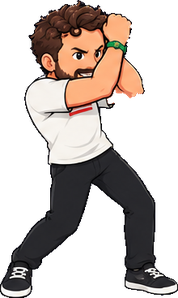
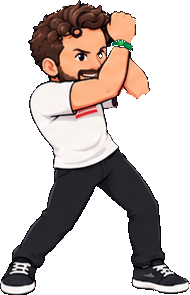
La Mocha: actualiza poses y retrato de Karl
Claude-Session: https://claude.ai/code/session_019FDnwE1yNBZjJsBSPwGXXr

Changed region(s): [[0.1124, 0.0, 1.0, 1.0], [0.0, 0.8237, 0.2247, 1.0], [0.2247, 0.6407, 0.5056, 0.8847]]

diff --git a/la-mocha/index.html b/la-mocha/index.html
@@ -312,7 +312,7 @@ ROSTER.find(c=>c.name==="Bruno").spr="Bruno";
 /* ---------- Dibujo de luchadores ---------- */
 const HEADS=new Map();
 /* ---------- Sprites ilustrados ---------- */
-const SPRITES={"Ivan":{portrait:"personajes/Ivan/portrait.png",idle:{w:138,h:300,ax:72,src:"personajes/Ivan/idle.png"},punch:{w:167,h:300,ax:90,src:"personajes/Ivan/punch.png"},kick:{w:162,h:300,ax:36,src:"personajes/Ivan/kick.png"},hit:{w:145,h:300,ax:38,src:"personajes/Ivan/hit.png"},win:{w:134,h:300,ax:71,src:"personajes/Ivan/win.png"},crouch:{w:169,h:241,ax:92,src:"personajes/Ivan/crouch.png"},crouch_punch:{w:197,h:242,ax:105,src:"personajes/Ivan/crouch_punch.png"},crouch_kick:{w:177,h:215,ax:54,src:"personajes/Ivan/crouch_kick.png"},punch_hi:{w:182,h:300,ax:119,src:"personajes/Ivan/punch_hi.png"},upper:{w:190,h:325,ax:121,src:"personajes/Ivan/upper.png"},kick_hi:{w:176,h:300,ax:71,src:"personajes/Ivan/kick_hi.png"},block:{w:154,h:300,ax:82,src:"personajes/Ivan/block.png"}},"Marcelo":{portrait:"personajes/Marcelo/portrait.png",idle:{w:177,h:300,ax:89,src:"personajes/Marcelo/idle.png"},punch:{w:197,h:300,ax:96,src:"personajes/Marcelo/punch.png"},kick:{w:202,h:300,ax:46,src:"personajes/Marcelo/kick.png"},hit:{w:174,h:300,ax:43,src:"personajes/Marcelo/hit.png"},win:{w:177,h:300,ax:91,src:"personajes/Marcelo/win.png"},crouch:{w:204,h:239,ax:102,src:"personajes/Marcelo/crouch.png"},crouch_punch:{w:227,h:239,ax:112,src:"personajes/Marcelo/crouch_punch.png"},crouch_kick:{w:156,h:196,ax:54,src:"personajes/Marcelo/crouch_kick.png"},punch_hi:{w:206,h:302,ax:137,src:"personajes/Marcelo/punch_hi.png"},upper:{w:194,h:333,ax:129,src:"personajes/Marcelo/upper.png"},kick_hi:{w:178,h:300,ax:57,src:"personajes/Marcelo/kick_hi.png"},block:{w:152,h:300,ax:57,src:"personajes/Marcelo/block.png"}},"Bruno":{portrait:"personajes/Bruno/portrait.png",idle:{w:162,h:300,ax:85,src:"personajes/Bruno/idle.png"},punch:{w:201,h:300,ax:97,src:"personajes/Bruno/punch.png"},kick:{w:198,h:300,ax:46,src:"personajes/Bruno/kick.png"},hit:{w:167,h:300,ax:42,src:"personajes/Bruno/hit.png"},win:{w:153,h:300,ax:83,src:"personajes/Bruno/win.png"},crouch:{w:165,h:239,ax:105,src:"personajes/Bruno/crouch.png"},crouch_punch:{w:237,h:237,ax:115,src:"personajes/Bruno/crouch_punch.png"},crouch_kick:{w:175,h:198,ax:68,src:"personajes/Bruno/crouch_kick.png"},punch_hi:{w:174,h:302,ax:103,src:"personajes/Bruno/punch_hi.png"},upper:{w:194,h:337,ax:90,src:"personajes/Bruno/upper.png"},kick_hi:{w:188,h:300,ax:70,src:"personajes/Bruno/kick_hi.png"},block:{w:182,h:300,ax:105,src:"personajes/Bruno/block.png"}},"Karl":{portrait:"personajes/Karl/portrait.png",idle:{w:168,h:300,ax:77,src:"personajes/Karl/idle.png"},punch:{w:191,h:289,ax:84,src:"personajes/Karl/punch.png"},kick:{w:183,h:276,ax:37,src:"personajes/Karl/kick.png"},hit:{w:187,h:282,ax:36,src:"personajes/Karl/hit.png"},win:{w:181,h:336,ax:79,src:"personajes/Karl/win.png"},crouch:{w:167,h:237,ax:87,src:"personajes/Karl/crouch.png"},crouch_punch:{w:193,h:239,ax:95,src:"personajes/Karl/crouch_punch.png"},crouch_kick:{w:188,h:267,ax:45,src:"personajes/Karl/crouch_kick.png"},punch_hi:{w:181,h:307,ax:56,src:"personajes/Karl/punch_hi.png"},upper:{w:185,h:317,ax:75,src:"personajes/Karl/upper.png"},kick_hi:{w:175,h:311,ax:39,src:"personajes/Karl/kick_hi.png"},block:{w:178,h:298,ax:65,src:"personajes/Karl/block.png"}},"Klaus":{portrait:"personajes/Klaus/portrait.png",idle:{w:136,h:300,ax:70,src:"personajes/Klaus/idle.png"},punch:{w:158,h:300,ax:72,src:"personajes/Klaus/punch.png"},kick:{w:162,h:300,ax:37,src:"personajes/Klaus/kick.png"},hit:{w:144,h:300,ax:38,src:"personajes/Klaus/hit.png"},win:{w:128,h:300,ax:62,src:"personajes/Klaus/win.png"},crouch:{w:144,h:244,ax:94,src:"personajes/Klaus/crouch.png"},crouch_punch:{w:186,h:239,ax:86,src:"personajes/Klaus/crouch_punch.png"},crouch_kick:{w:156,h:208,ax:56,src:"personajes/Klaus/crouch_kick.png"},punch_hi:{w:186,h:302,ax:97,src:"personajes/Klaus/punch_hi.png"},upper:{w:199,h:341,ax:89,src:"personajes/Klaus/upper.png"},kick_hi:{w:168,h:300,ax:59,src:"personajes/Klaus/kick_hi.png"},block:{w:171,h:300,ax:94,src:"personajes/Klaus/block.png"}},"Felipe":{portrait:"personajes/Felipe/portrait.png",idle:{w:178,h:300,ax:101,src:"personajes/Felipe/idle.png"},punch:{w:207,h:300,ax:96,src:"personajes/Felipe/punch.png"},kick:{w:204,h:300,ax:70,src:"personajes/Felipe/kick.png"},hit:{w:187,h:300,ax:48,src:"personajes/Felipe/hit.png"},win:{w:174,h:300,ax:89,src:"personajes/Felipe/win.png"},crouch:{w:210,h:241,ax:117,src:"personajes/Felipe/crouch.png"},crouch_punch:{w:244,h:241,ax:114,src:"personajes/Felipe/crouch_punch.png"},crouch_kick:{w:201,h:200,ax:60,src:"personajes/Felipe/crouch_kick.png"},punch_hi:{w:233,h:302,ax:154,src:"personajes/Felipe/punch_hi.png"},upper:{w:218,h:341,ax:109,src:"personajes/Felipe/upper.png"},kick_hi:{w:192,h:307,ax:107,src:"personajes/Felipe/kick_hi.png"},block:{w:180,h:300,ax:100,src:"personajes/Felipe/block.png"}},"Adam":{portrait:"personajes/Adam/portrait.png",idle:{w:193,h:300,ax:99,src:"personajes/Adam/idle.png"},punch:{w:245,h:300,ax:124,src:"personajes/Adam/punch.png"},kick:{w:252,h:300,ax:80,src:"personajes/Adam/kick.png"},hit:{w:228,h:300,ax:75,src:"personajes/Adam/hit.png"},win:{w:185,h:300,ax:94,src:"personajes/Adam/win.png"},crouch:{w:217,h:236,ax:119,src:"personajes/Adam/crouch.png"},crouch_punch:{w:289,h:241,ax:146,src:"personajes/Adam/crouch_punch.png"},crouch_kick:{w:159,h:183,ax:53,src:"personajes/Adam/crouch_kick.png"},punch_hi:{w:199,h:305,ax:123,src:"personajes/Adam/punch_hi.png"},upper:{w:208,h:339,ax:127,src:"personajes/Adam/upper.png"},kick_hi:{w:202,h:307,ax:117,src:"personajes/Adam/kick_hi.png"},block:{w:180,h:300,ax:83,src:"personajes/Adam/block.png"}},"Lazza":{portrait:"personajes/Lazza/portrait.png",idle:{w:154,h:300,ax:77,src:"personajes/Lazza/idle.png"},punch:{w:186,h:300,ax:86,src:"personajes/Lazza/punch.png"},kick:{w:189,h:300,ax:53,src:"personajes/Lazza/kick.png"},hit:{w:163,h:300,ax:45,src:"personajes/Lazza/hit.png"},win:{w:147,h:300,ax:79,src:"personajes/Lazza/win.png"},crouch:{w:196,h:248,ax:104,src:"personajes/Lazza/crouch.png"},crouch_punch:{w:219,h:239,ax:102,src:"personajes/Lazza/crouch_punch.png"},crouch_kick:{w:168,h:191,ax:44,src:"personajes/Lazza/crouch_kick.png"},punch_hi:{w:216,h:300,ax:110,src:"personajes/Lazza/punch_hi.png"},upper:{w:217,h:348,ax:108,src:"personajes/Lazza/upper.png"},kick_hi:{w:217,h:309,ax:83,src:"personajes/Lazza/kick_hi.png"},block:{w:156,h:300,ax:64,src:"personajes/Lazza/block.png"}},"Espe":{portrait:"personajes/Espe/portrait.png",idle:{w:152,h:300,ax:67,src:"personajes/Espe/idle.png"},punch:{w:184,h:300,ax:86,src:"personajes/Espe/punch.png"},kick:{w:187,h:300,ax:49,src:"personajes/Espe/kick.png"},hit:{w:164,h:300,ax:49,src:"personajes/Espe/hit.png"},win:{w:126,h:300,ax:68,src:"personajes/Espe/win.png"},crouch:{w:182,h:241,ax:89,src:"personajes/Espe/crouch.png"},crouch_punch:{w:217,h:232,ax:102,src:"personajes/Espe/crouch_punch.png"},crouch_kick:{w:172,h:202,ax:55,src:"personajes/Espe/crouch_kick.png"},punch_hi:{w:215,h:302,ax:134,src:"personajes/Espe/punch_hi.png"},upper:{w:236,h:350,ax:154,src:"personajes/Espe/upper.png"},kick_hi:{w:218,h:300,ax:95,src:"personajes/Espe/kick_hi.png"},block:{w:168,h:300,ax:99,src:"personajes/Espe/block.png"}},"Marco":{portrait:"personajes/Marco/portrait.png",idle:{w:148,h:300,ax:81,src:"personajes/Marco/idle.png"},punch:{w:200,h:300,ax:107,src:"personajes/Marco/punch.png"},kick:{w:187,h:300,ax:53,src:"personajes/Marco/kick.png"},hit:{w:167,h:300,ax:49,src:"personajes/Marco/hit.png"},win:{w:163,h:300,ax:90,src:"personajes/Marco/win.png"},crouch:{w:161,h:242,ax:98,src:"personajes/Marco/crouch.png"},crouch_punch:{w:236,h:240,ax:125,src:"personajes/Marco/crouch_punch.png"},crouch_kick:{w:206,h:190,ax:58,src:"personajes/Marco/crouch_kick.png"},punch_hi:{w:229,h:306,ax:147,src:"personajes/Marco/punch_hi.png"},upper:{w:237,h:355,ax:134,src:"personajes/Marco/upper.png"},kick_hi:{w:212,h:302,ax:62,src:"personajes/Marco/kick_hi.png"},block:{w:183,h:300,ax:91,src:"personajes/Marco/block.png"}},"Maxi":{portrait:"personajes/Maxi/portrait.png",idle:{w:170,h:300,ax:87,src:"personajes/Maxi/idle.png"},punch:{w:192,h:300,ax:91,src:"personajes/Maxi/punch.png"},kick:{w:182,h:300,ax:40,src:"personajes/Maxi/kick.png"},hit:{w:175,h:300,ax:51,src:"personajes/Maxi/hit.png"},win:{w:167,h:300,ax:96,src:"personajes/Maxi/win.png"},crouch:{w:201,h:241,ax:102,src:"personajes/Maxi/crouch.png"},crouch_punch:{w:227,h:241,ax:108,src:"personajes/Maxi/crouch_punch.png"},crouch_kick:{w:164,h:201,ax:46,src:"personajes/Maxi/crouch_kick.png"},punch_hi:{w:196,h:300,ax:98,src:"personajes/Maxi/punch_hi.png"},upper:{w:224,h:349,ax:99,src:"personajes/Maxi/upper.png"},kick_hi:{w:182,h:300,ax:63,src:"personajes/Maxi/kick_hi.png"},block:{w:198,h:300,ax:109,src:"personajes/Maxi/block.png"}},"Marcelo Ig":{portrait:"personajes/Marcelo_Ig/portrait.png",idle:{w:173,h:300,ax:94,src:"personajes/Marcelo_Ig/idle.png"},punch:{w:197,h:300,ax:105,src:"personajes/Marcelo_Ig/punch.png"},kick:{w:189,h:300,ax:42,src:"personajes/Marcelo_Ig/kick.png"},hit:{w:176,h:300,ax:44,src:"personajes/Marcelo_Ig/hit.png"},win:{w:167,h:300,ax:91,src:"personajes/Marcelo_Ig/win.png"},crouch:{w:204,h:241,ax:109,src:"personajes/Marcelo_Ig/crouch.png"},crouch_punch:{w:232,h:241,ax:122,src:"personajes/Marcelo_Ig/crouch_punch.png"},crouch_kick:{w:176,h:204,ax:42,src:"personajes/Marcelo_Ig/crouch_kick.png"},punch_hi:{w:205,h:302,ax:133,src:"personajes/Marcelo_Ig/punch_hi.png"},upper:{w:217,h:355,ax:93,src:"personajes/Marcelo_Ig/upper.png"},kick_hi:{w:197,h:300,ax:60,src:"personajes/Marcelo_Ig/kick_hi.png"},block:{w:196,h:300,ax:106,src:"personajes/Marcelo_Ig/block.png"}},"Miguel":{portrait:"personajes/Miguel/portrait.png",idle:{w:173,h:300,ax:102,src:"personajes/Miguel/idle.png"},punch:{w:199,h:300,ax:106,src:"personajes/Miguel/punch.png"},kick:{w:206,h:300,ax:55,src:"personajes/Miguel/kick.png"},hit:{w:199,h:300,ax:48,src:"personajes/Miguel/hit.png"},win:{w:169,h:300,ax:93,src:"personajes/Miguel/win.png"},crouch:{w:204,h:248,ax:117,src:"personajes/Miguel/crouch.png"},crouch_punch:{w:235,h:248,ax:124,src:"personajes/Miguel/crouch_punch.png"},crouch_kick:{w:166,h:193,ax:49,src:"personajes/Miguel/crouch_kick.png"},punch_hi:{w:200,h:300,ax:106,src:"personajes/Miguel/punch_hi.png"},upper:{w:214,h:300,ax:107,src:"personajes/Miguel/upper.png"},kick_hi:{w:189,h:300,ax:57,src:"personajes/Miguel/kick_hi.png"},block:{w:176,h:300,ax:87,src:"personajes/Miguel/block.png"}}};
+const SPRITES={"Ivan":{portrait:"personajes/Ivan/portrait.png",idle:{w:138,h:300,ax:72,src:"personajes/Ivan/idle.png"},punch:{w:167,h:300,ax:90,src:"personajes/Ivan/punch.png"},kick:{w:162,h:300,ax:36,src:"personajes/Ivan/kick.png"},hit:{w:145,h:300,ax:38,src:"personajes/Ivan/hit.png"},win:{w:134,h:300,ax:71,src:"personajes/Ivan/win.png"},crouch:{w:169,h:241,ax:92,src:"personajes/Ivan/crouch.png"},crouch_punch:{w:197,h:242,ax:105,src:"personajes/Ivan/crouch_punch.png"},crouch_kick:{w:177,h:215,ax:54,src:"personajes/Ivan/crouch_kick.png"},punch_hi:{w:182,h:300,ax:119,src:"personajes/Ivan/punch_hi.png"},upper:{w:190,h:325,ax:121,src:"personajes/Ivan/upper.png"},kick_hi:{w:176,h:300,ax:71,src:"personajes/Ivan/kick_hi.png"},block:{w:154,h:300,ax:82,src:"personajes/Ivan/block.png"}},"Marcelo":{portrait:"personajes/Marcelo/portrait.png",idle:{w:177,h:300,ax:89,src:"personajes/Marcelo/idle.png"},punch:{w:197,h:300,ax:96,src:"personajes/Marcelo/punch.png"},kick:{w:202,h:300,ax:46,src:"personajes/Marcelo/kick.png"},hit:{w:174,h:300,ax:43,src:"personajes/Marcelo/hit.png"},win:{w:177,h:300,ax:91,src:"personajes/Marcelo/win.png"},crouch:{w:204,h:239,ax:102,src:"personajes/Marcelo/crouch.png"},crouch_punch:{w:227,h:239,ax:112,src:"personajes/Marcelo/crouch_punch.png"},crouch_kick:{w:156,h:196,ax:54,src:"personajes/Marcelo/crouch_kick.png"},punch_hi:{w:206,h:302,ax:137,src:"personajes/Marcelo/punch_hi.png"},upper:{w:194,h:333,ax:129,src:"personajes/Marcelo/upper.png"},kick_hi:{w:178,h:300,ax:57,src:"personajes/Marcelo/kick_hi.png"},block:{w:152,h:300,ax:57,src:"personajes/Marcelo/block.png"}},"Bruno":{portrait:"personajes/Bruno/portrait.png",idle:{w:162,h:300,ax:85,src:"personajes/Bruno/idle.png"},punch:{w:201,h:300,ax:97,src:"personajes/Bruno/punch.png"},kick:{w:198,h:300,ax:46,src:"personajes/Bruno/kick.png"},hit:{w:167,h:300,ax:42,src:"personajes/Bruno/hit.png"},win:{w:153,h:300,ax:83,src:"personajes/Bruno/win.png"},crouch:{w:165,h:239,ax:105,src:"personajes/Bruno/crouch.png"},crouch_punch:{w:237,h:237,ax:115,src:"personajes/Bruno/crouch_punch.png"},crouch_kick:{w:175,h:198,ax:68,src:"personajes/Bruno/crouch_kick.png"},punch_hi:{w:174,h:302,ax:103,src:"personajes/Bruno/punch_hi.png"},upper:{w:194,h:337,ax:90,src:"personajes/Bruno/upper.png"},kick_hi:{w:188,h:300,ax:70,src:"personajes/Bruno/kick_hi.png"},block:{w:182,h:300,ax:105,src:"personajes/Bruno/block.png"}},"Karl":{portrait:"personajes/Karl/portrait.png",idle:{w:192,h:300,ax:88,src:"personajes/Karl/idle.png"},punch:{w:220,h:286,ax:112,src:"personajes/Karl/punch.png"},kick:{w:191,h:268,ax:34,src:"personajes/Karl/kick.png"},hit:{w:211,h:283,ax:32,src:"personajes/Karl/hit.png"},win:{w:202,h:317,ax:89,src:"personajes/Karl/win.png"},crouch:{w:178,h:233,ax:92,src:"personajes/Karl/crouch.png"},crouch_punch:{w:226,h:232,ax:120,src:"personajes/Karl/crouch_punch.png"},crouch_kick:{w:215,h:255,ax:52,src:"personajes/Karl/crouch_kick.png"},punch_hi:{w:209,h:306,ax:87,src:"personajes/Karl/punch_hi.png"},upper:{w:191,h:312,ax:85,src:"personajes/Karl/upper.png"},kick_hi:{w:192,h:340,ax:33,src:"personajes/Karl/kick_hi.png"},block:{w:190,h:295,ax:63,src:"personajes/Karl/block.png"}},"Klaus":{portrait:"personajes/Klaus/portrait.png",idle:{w:136,h:300,ax:70,src:"personajes/Klaus/idle.png"},punch:{w:158,h:300,ax:72,src:"personajes/Klaus/punch.png"},kick:{w:162,h:300,ax:37,src:"personajes/Klaus/kick.png"},hit:{w:144,h:300,ax:38,src:"personajes/Klaus/hit.png"},win:{w:128,h:300,ax:62,src:"personajes/Klaus/win.png"},crouch:{w:144,h:244,ax:94,src:"personajes/Klaus/crouch.png"},crouch_punch:{w:186,h:239,ax:86,src:"personajes/Klaus/crouch_punch.png"},crouch_kick:{w:156,h:208,ax:56,src:"personajes/Klaus/crouch_kick.png"},punch_hi:{w:186,h:302,ax:97,src:"personajes/Klaus/punch_hi.png"},upper:{w:199,h:341,ax:89,src:"personajes/Klaus/upper.png"},kick_hi:{w:168,h:300,ax:59,src:"personajes/Klaus/kick_hi.png"},block:{w:171,h:300,ax:94,src:"personajes/Klaus/block.png"}},"Felipe":{portrait:"personajes/Felipe/portrait.png",idle:{w:178,h:300,ax:101,src:"personajes/Felipe/idle.png"},punch:{w:207,h:300,ax:96,src:"personajes/Felipe/punch.png"},kick:{w:204,h:300,ax:70,src:"personajes/Felipe/kick.png"},hit:{w:187,h:300,ax:48,src:"personajes/Felipe/hit.png"},win:{w:174,h:300,ax:89,src:"personajes/Felipe/win.png"},crouch:{w:210,h:241,ax:117,src:"personajes/Felipe/crouch.png"},crouch_punch:{w:244,h:241,ax:114,src:"personajes/Felipe/crouch_punch.png"},crouch_kick:{w:201,h:200,ax:60,src:"personajes/Felipe/crouch_kick.png"},punch_hi:{w:233,h:302,ax:154,src:"personajes/Felipe/punch_hi.png"},upper:{w:218,h:341,ax:109,src:"personajes/Felipe/upper.png"},kick_hi:{w:192,h:307,ax:107,src:"personajes/Felipe/kick_hi.png"},block:{w:180,h:300,ax:100,src:"personajes/Felipe/block.png"}},"Adam":{portrait:"personajes/Adam/portrait.png",idle:{w:193,h:300,ax:99,src:"personajes/Adam/idle.png"},punch:{w:245,h:300,ax:124,src:"personajes/Adam/punch.png"},kick:{w:252,h:300,ax:80,src:"personajes/Adam/kick.png"},hit:{w:228,h:300,ax:75,src:"personajes/Adam/hit.png"},win:{w:185,h:300,ax:94,src:"personajes/Adam/win.png"},crouch:{w:217,h:236,ax:119,src:"personajes/Adam/crouch.png"},crouch_punch:{w:289,h:241,ax:146,src:"personajes/Adam/crouch_punch.png"},crouch_kick:{w:159,h:183,ax:53,src:"personajes/Adam/crouch_kick.png"},punch_hi:{w:199,h:305,ax:123,src:"personajes/Adam/punch_hi.png"},upper:{w:208,h:339,ax:127,src:"personajes/Adam/upper.png"},kick_hi:{w:202,h:307,ax:117,src:"personajes/Adam/kick_hi.png"},block:{w:180,h:300,ax:83,src:"personajes/Adam/block.png"}},"Lazza":{portrait:"personajes/Lazza/portrait.png",idle:{w:154,h:300,ax:77,src:"personajes/Lazza/idle.png"},punch:{w:186,h:300,ax:86,src:"personajes/Lazza/punch.png"},kick:{w:189,h:300,ax:53,src:"personajes/Lazza/kick.png"},hit:{w:163,h:300,ax:45,src:"personajes/Lazza/hit.png"},win:{w:147,h:300,ax:79,src:"personajes/Lazza/win.png"},crouch:{w:196,h:248,ax:104,src:"personajes/Lazza/crouch.png"},crouch_punch:{w:219,h:239,ax:102,src:"personajes/Lazza/crouch_punch.png"},crouch_kick:{w:168,h:191,ax:44,src:"personajes/Lazza/crouch_kick.png"},punch_hi:{w:216,h:300,ax:110,src:"personajes/Lazza/punch_hi.png"},upper:{w:217,h:348,ax:108,src:"personajes/Lazza/upper.png"},kick_hi:{w:217,h:309,ax:83,src:"personajes/Lazza/kick_hi.png"},block:{w:156,h:300,ax:64,src:"personajes/Lazza/block.png"}},"Espe":{portrait:"personajes/Espe/portrait.png",idle:{w:152,h:300,ax:67,src:"personajes/Espe/idle.png"},punch:{w:184,h:300,ax:86,src:"personajes/Espe/punch.png"},kick:{w:187,h:300,ax:49,src:"personajes/Espe/kick.png"},hit:{w:164,h:300,ax:49,src:"personajes/Espe/hit.png"},win:{w:126,h:300,ax:68,src:"personajes/Espe/win.png"},crouch:{w:182,h:241,ax:89,src:"personajes/Espe/crouch.png"},crouch_punch:{w:217,h:232,ax:102,src:"personajes/Espe/crouch_punch.png"},crouch_kick:{w:172,h:202,ax:55,src:"personajes/Espe/crouch_kick.png"},punch_hi:{w:215,h:302,ax:134,src:"personajes/Espe/punch_hi.png"},upper:{w:236,h:350,ax:154,src:"personajes/Espe/upper.png"},kick_hi:{w:218,h:300,ax:95,src:"personajes/Espe/kick_hi.png"},block:{w:168,h:300,ax:99,src:"personajes/Espe/block.png"}},"Marco":{portrait:"personajes/Marco/portrait.png",idle:{w:148,h:300,ax:81,src:"personajes/Marco/idle.png"},punch:{w:200,h:300,ax:107,src:"personajes/Marco/punch.png"},kick:{w:187,h:300,ax:53,src:"personajes/Marco/kick.png"},hit:{w:167,h:300,ax:49,src:"personajes/Marco/hit.png"},win:{w:163,h:300,ax:90,src:"personajes/Marco/win.png"},crouch:{w:161,h:242,ax:98,src:"personajes/Marco/crouch.png"},crouch_punch:{w:236,h:240,ax:125,src:"personajes/Marco/crouch_punch.png"},crouch_kick:{w:206,h:190,ax:58,src:"personajes/Marco/crouch_kick.png"},punch_hi:{w:229,h:306,ax:147,src:"personajes/Marco/punch_hi.png"},upper:{w:237,h:355,ax:134,src:"personajes/Marco/upper.png"},kick_hi:{w:212,h:302,ax:62,src:"personajes/Marco/kick_hi.png"},block:{w:183,h:300,ax:91,src:"personajes/Marco/block.png"}},"Maxi":{portrait:"personajes/Maxi/portrait.png",idle:{w:170,h:300,ax:87,src:"personajes/Maxi/idle.png"},punch:{w:192,h:300,ax:91,src:"personajes/Maxi/punch.png"},kick:{w:182,h:300,ax:40,src:"personajes/Maxi/kick.png"},hit:{w:175,h:300,ax:51,src:"personajes/Maxi/hit.png"},win:{w:167,h:300,ax:96,src:"personajes/Maxi/win.png"},crouch:{w:201,h:241,ax:102,src:"personajes/Maxi/crouch.png"},crouch_punch:{w:227,h:241,ax:108,src:"personajes/Maxi/crouch_punch.png"},crouch_kick:{w:164,h:201,ax:46,src:"personajes/Maxi/crouch_kick.png"},punch_hi:{w:196,h:300,ax:98,src:"personajes/Maxi/punch_hi.png"},upper:{w:224,h:349,ax:99,src:"personajes/Maxi/upper.png"},kick_hi:{w:182,h:300,ax:63,src:"personajes/Maxi/kick_hi.png"},block:{w:198,h:300,ax:109,src:"personajes/Maxi/block.png"}},"Marcelo Ig":{portrait:"personajes/Marcelo_Ig/portrait.png",idle:{w:173,h:300,ax:94,src:"personajes/Marcelo_Ig/idle.png"},punch:{w:197,h:300,ax:105,src:"personajes/Marcelo_Ig/punch.png"},kick:{w:189,h:300,ax:42,src:"personajes/Marcelo_Ig/kick.png"},hit:{w:176,h:300,ax:44,src:"personajes/Marcelo_Ig/hit.png"},win:{w:167,h:300,ax:91,src:"personajes/Marcelo_Ig/win.png"},crouch:{w:204,h:241,ax:109,src:"personajes/Marcelo_Ig/crouch.png"},crouch_punch:{w:232,h:241,ax:122,src:"personajes/Marcelo_Ig/crouch_punch.png"},crouch_kick:{w:176,h:204,ax:42,src:"personajes/Marcelo_Ig/crouch_kick.png"},punch_hi:{w:205,h:302,ax:133,src:"personajes/Marcelo_Ig/punch_hi.png"},upper:{w:217,h:355,ax:93,src:"personajes/Marcelo_Ig/upper.png"},kick_hi:{w:197,h:300,ax:60,src:"personajes/Marcelo_Ig/kick_hi.png"},block:{w:196,h:300,ax:106,src:"personajes/Marcelo_Ig/block.png"}},"Miguel":{portrait:"personajes/Miguel/portrait.png",idle:{w:173,h:300,ax:102,src:"personajes/Miguel/idle.png"},punch:{w:199,h:300,ax:106,src:"personajes/Miguel/punch.png"},kick:{w:206,h:300,ax:55,src:"personajes/Miguel/kick.png"},hit:{w:199,h:300,ax:48,src:"personajes/Miguel/hit.png"},win:{w:169,h:300,ax:93,src:"personajes/Miguel/win.png"},crouch:{w:204,h:248,ax:117,src:"personajes/Miguel/crouch.png"},crouch_punch:{w:235,h:248,ax:124,src:"personajes/Miguel/crouch_punch.png"},crouch_kick:{w:166,h:193,ax:49,src:"personajes/Miguel/crouch_kick.png"},punch_hi:{w:200,h:300,ax:106,src:"personajes/Miguel/punch_hi.png"},upper:{w:214,h:300,ax:107,src:"personajes/Miguel/upper.png"},kick_hi:{w:189,h:300,ax:57,src:"personajes/Miguel/kick_hi.png"},block:{w:176,h:300,ax:87,src:"personajes/Miguel/block.png"}}};
 for(const name in SPRITES){const S=SPRITES[name];let n=0,need=0;
   for(const k in S){if(k==="portrait"){const im=new Image();im.onload=()=>{S.pimg=im;HEADS.clear();try{ROSTER.forEach((ch,i)=>{const c=document.querySelector("#card"+i+" canvas");if(c)portrait(c,ch)})}catch(e){}};im.src=S.portrait;continue}
     need++;const m=S[k];if(k.startsWith("crouch"))m.bent=true;const im=new Image();im.onload=()=>{m.img=im;if(++n===need){S.ok=true;HEADS.clear&&HEADS.clear();try{ROSTER.forEach((ch,i)=>{const c=document.querySelector("#card"+i+" canvas");if(c)portrait(c,ch)})}catch(e){}}};im.src=m.src}}
